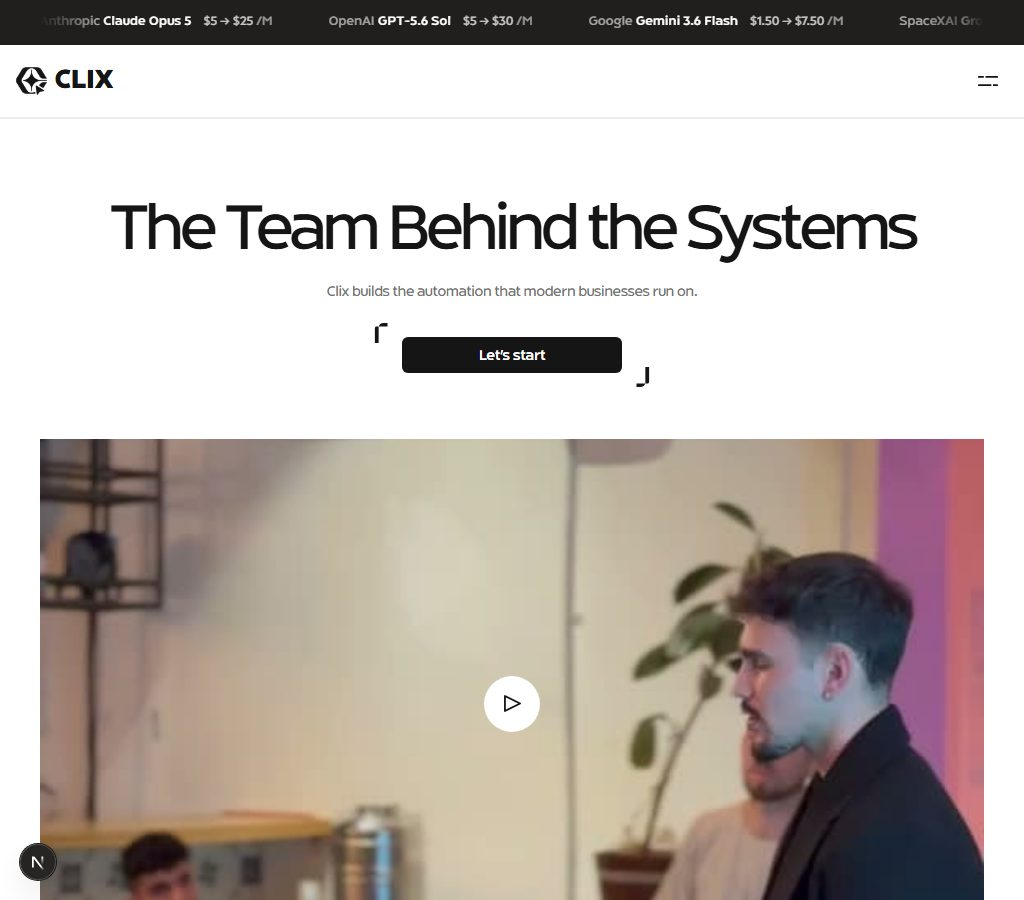
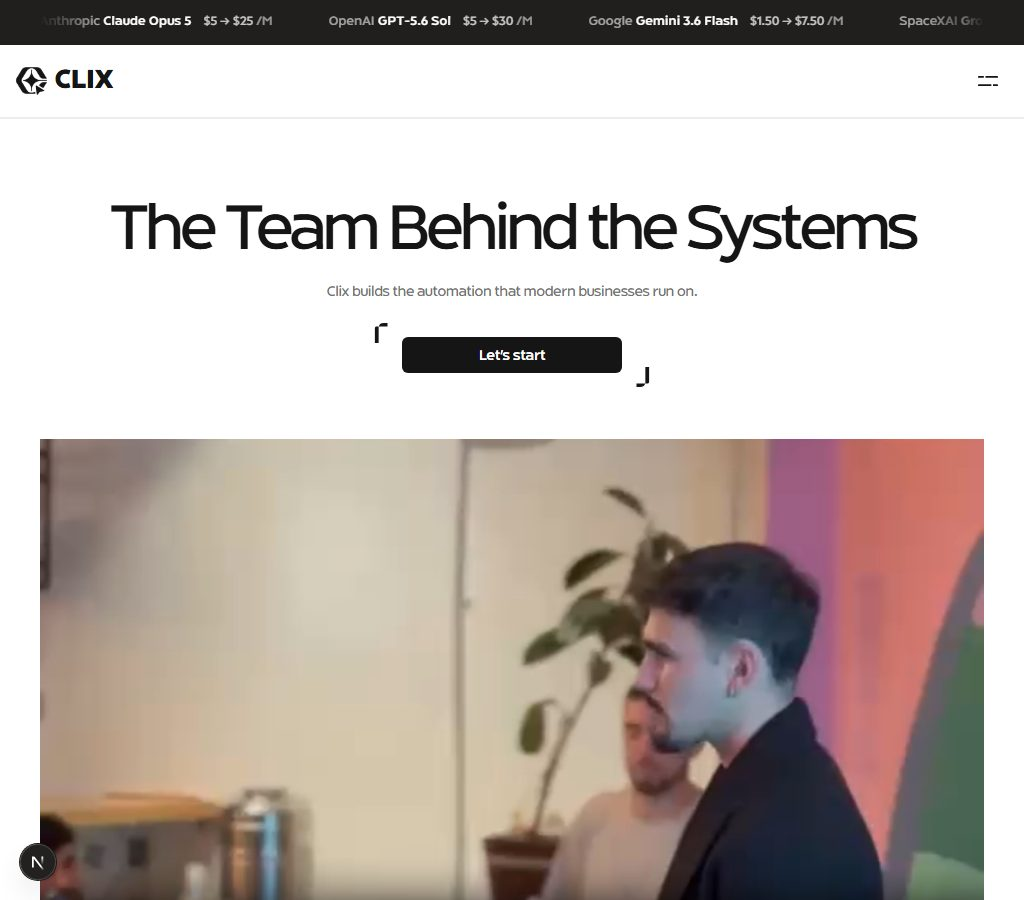
Autoplay /company Block 1's video, drop the play button
User's request, and a deliberate departure from the target on this point: the capture's
variant is literally named "Paused" and waits for a press.

  - muted is REQUIRED, not decoration. Browsers block unmuted autoplay outright, so without
    it the promise rejects and nothing plays. Free here: the clip has no audio track.
  - preload none -> metadata. "none" fights autoplay; "auto" would pull the whole 1.3 MB on
    every page load whether or not the band is ever scrolled to.
  - PlayGlyph and the click-to-play latch removed as dead code.

THE OBVIOUS IMPLEMENTATION WAS WRONG, AND THE FIRST VERSION OF THIS SHIPPED IT

Autoplay is exactly the motion a reduced-motion visitor has asked not to see, and
globals.css's rule cannot help: it targets .hero-video only. So the preference was wired
through the existing usePrefersReducedMotion hook as autoPlay={!reduced}. That does not work.

Caught by measuring rather than reasoning. With reduce emulated, the attribute read
autoplay=false and controls=true exactly as intended, and the clip was playing anyway,
currentTime advancing 4.05 -> 6.05.

The cause is hydration order. The hook's server snapshot is false, so SSR emits autoplaying
markup and the browser starts the clip while parsing. React hydrates and drops the attribute,
but autoplay is only consulted when playback BEGINS: removing it never pauses an element that
is already running.

Fixed with an imperative useEffect that pauses on reduced. It also covers a case the
[…]

diff --git a/src/components/company/CompanyHero.tsx b/src/components/company/CompanyHero.tsx
@@ -45,7 +45,7 @@
  * is baked into rogo's own video frame, not a DOM element. Nothing to reproduce.
  */
 
-import { useRef, useState } from "react";
+import { useEffect, useRef, useSyncExternalStore } from "react";
 
 /* The two corner brackets that frame the CTA. 14x20 each, ink fill, path data verbatim
    from the capture's <use> defs #svg-1980836134_494 (Left) and #svg5446185_500 (Right).
@@ -95,43 +95,62 @@ function BracketRight({ className, style }: { className?: string; style?: React.
   );
 }
 
-/* Play glyph, 29x29 in a 0 0 24 24 box — the capture's def #3535238546, kept verbatim
-   including its `translate(5.75 5.75)` offset and its OUTLINED triangle (fill transparent,
-   1.5px round-joined stroke). It is not the solid triangle Testimonials.tsx uses.
-   The original strokes pure rgb(0,0,0); ours inherits `text-ink` (#151515) from the button
-   so no stray hex enters the component. The delta is 21/255 on a 1.5px stroke. */
-function PlayGlyph() {
-  return (
-    <svg width="29" height="29" viewBox="0 0 24 24" fill="none" className="h-[29px] w-[29px]" aria-hidden="true">
-      <path
-        d="M 12.5 6.25 L 0 0 L 0 12.5 Z"
-        transform="translate(5.75 5.75)"
-        fill="transparent"
-        stroke="currentColor"
-        strokeWidth="1.5"
-        strokeLinecap="round"
-        strokeLinejoin="round"
-      />
-    </svg>
+/* Duplicated verbatim from ProductHero.tsx / ProductStepper.tsx / ProductTestimonials.tsx
+   rather than extracted. The repo has no shared hooks module and four copies of this already
+   exist; adding a fifth keeps the file self contained, which is the established pattern here.
+   The server snapshot is `false`, so SSR renders the autoplaying markup and a reduced-motion
+   client corrects it on hydration. */
+function usePrefersReducedMotion() {
+  return useSyncExternalStore(
+    (onChange) => {
+      const mq = window.matchMedia("(prefers-reduced-motion: reduce)");
+      mq.addEventListener("change", onChange);
+      return () => mq.removeEventListener("change", onChange);
+    },
+    () => window.matchMedia("(prefers-reduced-motion: reduce)").matches,
+    () => false,
   );
 }
 
 export default function CompanyHero() {
-  const videoRef = useRef<HTMLVideoElement>(null);
-  /* One-way latch. Once the user has pressed play the native chrome owns the clip, so a
-     later pause must NOT bring the overlay back — that would fight the controls the user
-     is currently holding. Same idiom as Testimonials.tsx. */
-  const [playing, setPlaying] = useState(false);
+  /* AUTOPLAY, AND THAT MAKES THIS HOOK LOAD BEARING (2026-08-12, user: "make the video auto
+     play in company remove the play button").
 
-  const handlePlay = () => {
+     The previous build was click to play, and its comment argued that reduced motion needed
+     no special case BECAUSE nothing moved until someone asked. That reasoning died with the
+     play button. An autoplaying looping clip is exactly the motion a reduced-motion user has
+     asked not to be shown, and globals.css's rule cannot help: it targets `.hero-video` only.
+
+     So the preference is honoured in JS instead, and it DEGRADES rather than removes: a
+     reduced-motion visitor gets the poster plus native controls, so the clip is still theirs
+     to watch on purpose. Hiding it outright, which is what globals.css does to the home
+     hero, would be wrong here — that one is decorative background, this one is content. */
+  const reduced = usePrefersReducedMotion();
+  const videoRef = useRef<HTMLVideoElement>(null);
+
+  /* ⚠ THE `autoPlay` PROP ALONE DOES NOT HONOUR THE PREFERENCE, and the first version of
+     this shipped that bug. Measured, not theorised: with reduce emulated, the attribute
+     correctly read false and `controls` true, and the clip was playing anyway, currentTime
+     advancing 4.05 -> 6.05.
+
+     The cause is hydration order. `usePrefersReducedMotion`'s server snapshot is `false`, so
+     SSR emits the autoplaying markup and the browser starts the clip while parsing. React
+     then hydrates and drops the attribute, but `autoplay` is only consulted when playback
+     BEGINS: removing it never pauses an element that is already running.
+
+     So the pause has to be imperative. This also covers the live case, someone toggling the
+     OS setting with the page open, which the attribute would not handle either. */
+  useEffect(() => {
     const video = videoRef.current;
     if (!video) return;
-    setPlaying(true);
-    /* play() returns a promise that rejects on an unsupported codec or a revoked gesture.
-       There is nothing to roll back to — the controls are already up, so the user can
-       retry with native chrome — but an unhandled rejection would still hit the console. */
+    if (reduced) {
+      video.pause();
+      return;
+    }
+    /* play() rejects on a revoked gesture or an unsupported codec. Nothing to roll back to,
+       and an unhandled rejection would still reach the console. */
     void video.play().catch(() => {});
-  };
+  }, [reduced]);
 
   return (
     <section
@@ -239,12 +258,14 @@ export default function CompanyHero() {
           here rather than reproduced. */}
       <div className="flex w-full flex-col items-center justify-center gap-24 overflow-hidden bg-paper px-4 tablet:px-10">
         <div className="relative aspect-[1.78344] w-full max-w-[var(--container-max)] overflow-hidden">
-          {/* The original is `loop preload="none" playsinline`, NOT autoplay and NOT muted:
-              its variant is literally named "Paused" and it waits for a press. Ours matches.
-              Because playback is user initiated rather than automatic, prefers-reduced-motion
-              needs no special case here — nothing moves until someone asks it to. Worth
-              stating: globals.css does carry a reduced-motion rule, but it targets
-              `.hero-video` only and would not have covered this element.
+          {/* ⚠ OURS, NOT THE CAPTURE'S. The original is `loop preload="none" playsinline`,
+              NOT autoplay and NOT muted: its variant is literally named "Paused" and it waits
+              for a press. We autoplay at the user's explicit request, which is a deliberate
+              departure from the target on this one point.
+
+              `muted` is REQUIRED, not decoration. Browsers block unmuted autoplay outright,
+              so without it the promise rejects and nothing ever plays. It costs nothing here
+              because the clip carries no audio track at all (verified with ffprobe).
 
               ⚠ THE CLIP IS 9:16 PORTRAIT IN A 16:9 BOX, and that is a real compromise, not an
               oversight. Swapped in on 2026-08-12 at the user's request, replacing the Pexels
@@ -264,42 +285,23 @@ export default function CompanyHero() {
               `object-contain` (leaves ~877px of empty ground either side) or giving the band
               its own aspect ratio, which breaks the clone and moves every band below it.
 
-              Still no audio track on this clip (verified), so leaving it unmuted, faithful to
-              the original which sets neither `muted` nor `autoplay`, cannot surprise anyone. */}
+              `preload` moved from `none` to `metadata`: `none` fights autoplay, since the
+              browser has to fetch before it can start. Not `auto` — that would pull the whole
+              1.3 MB on every page load whether or not the band is ever scrolled to. */}
           <video
             ref={videoRef}
             src="/company/boss-lecture.mp4"
             poster="/company/boss-lecture-poster.jpg"
             aria-label="Footage of a Clix talk, a speaker addressing a seated audience in a studio space"
-            preload="none"
+            preload="metadata"
+            autoPlay={!reduced}
+            muted
             loop
             playsInline
-            controls={playing}
+            controls={reduced}
             className="absolute inset-0 h-full w-full object-cover"
             style={{ objectPosition: "50% 50%" }}
           />
-          {/* 56x56, centred, white, radius 43.2px (a circle at that size). The capture also
-              carries a Pause button at the same position, swapped by variant; here the
-              native controls take that job the moment playback starts, so the overlay
-              unmounts instead. The hover scale is OURS — the original sets only
-              `cursor:pointer` on hover, and the repo's definition of done wants a visible
-              hover and focus state on every control. */}
-          {!playing && (
-            <button
-              type="button"
-              onClick={handlePlay}
-              aria-label="Play the video"
-              className="absolute top-1/2 left-1/2 z-[1] flex h-14 w-14 -translate-x-1/2
-                         -translate-y-1/2 items-center justify-center overflow-hidden
-                         rounded-full bg-paper text-ink transition-transform duration-300
-                         hover:scale-105 focus-visible:scale-105 focus-visible:ring-2
-                         focus-visible:ring-paper focus-visible:ring-offset-2
-                         focus-visible:ring-offset-ink focus-visible:outline-none"
-              style={{ transitionTimingFunction: "var(--ease-rogo)" }}
-            >
-              <PlayGlyph />
-            </button>
-          )}
         </div>
       </div>
     </section>

diff --git a/features/company-page/CONTEXT.md b/features/company-page/CONTEXT.md
@@ -27,6 +27,53 @@ clean; `npx tsc --noEmit` clean across the project.
 
 ---
 
+## 2026-08-12 — Block 1's video autoplays, and the obvious implementation was wrong
+
+User: *"make the video auto play in company remove the play button"*. A deliberate departure
+from the target on this one point: the capture's variant is literally named `Paused` and waits
+for a press.
+
+`muted` is **required**, not decoration. Browsers block unmuted autoplay outright, so without
+it the promise rejects and nothing ever plays. It costs nothing because the clip has no audio
+track. `preload` moved `none` → `metadata`: `none` fights autoplay, `auto` would pull the whole
+1.3 MB on every page load whether or not anyone scrolls to the band.
+
+### ⚠ `autoPlay={!reduced}` DOES NOT HONOUR THE PREFERENCE. The first version shipped that bug.
+
+Autoplay is exactly the motion a reduced-motion visitor has asked not to see, and
+`globals.css`'s rule cannot help — it targets `.hero-video` only. So the preference was wired
+through the existing `usePrefersReducedMotion` hook … and it did not work.
+
+**Caught by measuring rather than reasoning.** With reduce emulated over CDP, the attribute read
+`autoplay false` and `controls true`, exactly as intended, **and the clip was playing anyway**,
+`currentTime` advancing 4.05 → 6.05.
+
+The cause is hydration order. The hook's server snapshot is `false`, so SSR emits the
+autoplaying markup and the browser starts the clip while parsing. React then hydrates and drops
+the attribute, but **`autoplay` is only consulted when playback BEGINS** — removing it never
+pauses an element that is already running.
+
+Fixed with an imperative `useEffect` that pauses on `reduced`. That also covers a case the
+attribute never could: someone toggling the OS setting with the page already open.
+
+Verified after the fix, both modes:
+
+| | paused | muted | autoplay | controls | currentTime |
+|---|---|---|---|---|---|
+| no-preference | false | true | true | false | 4.20 → 6.21, advancing |
+| reduce | **true** | true | false | **true** | 0.06 → 0.06, frozen |
+
+It **degrades rather than removes**: a reduced-motion visitor gets the poster plus native
+controls, so the clip is still theirs to watch on purpose. Hiding it outright, which is what
+`globals.css` does to the home hero, would be wrong here — that one is decorative background,
+this one is content.
+
+**Rule worth carrying: a media attribute driven by a client-only hook is not a preference
+guarantee.** SSR renders the default, the browser acts on it before hydration, and only an
+imperative call undoes it. `PlayGlyph` and the click-to-play latch were removed as dead code.
+
+---
+
 ## 2026-08-12 — Both media slots replaced with the user's own assets
 
 ### Block 5: stock photograph in, Old Jaffa placeholder out
